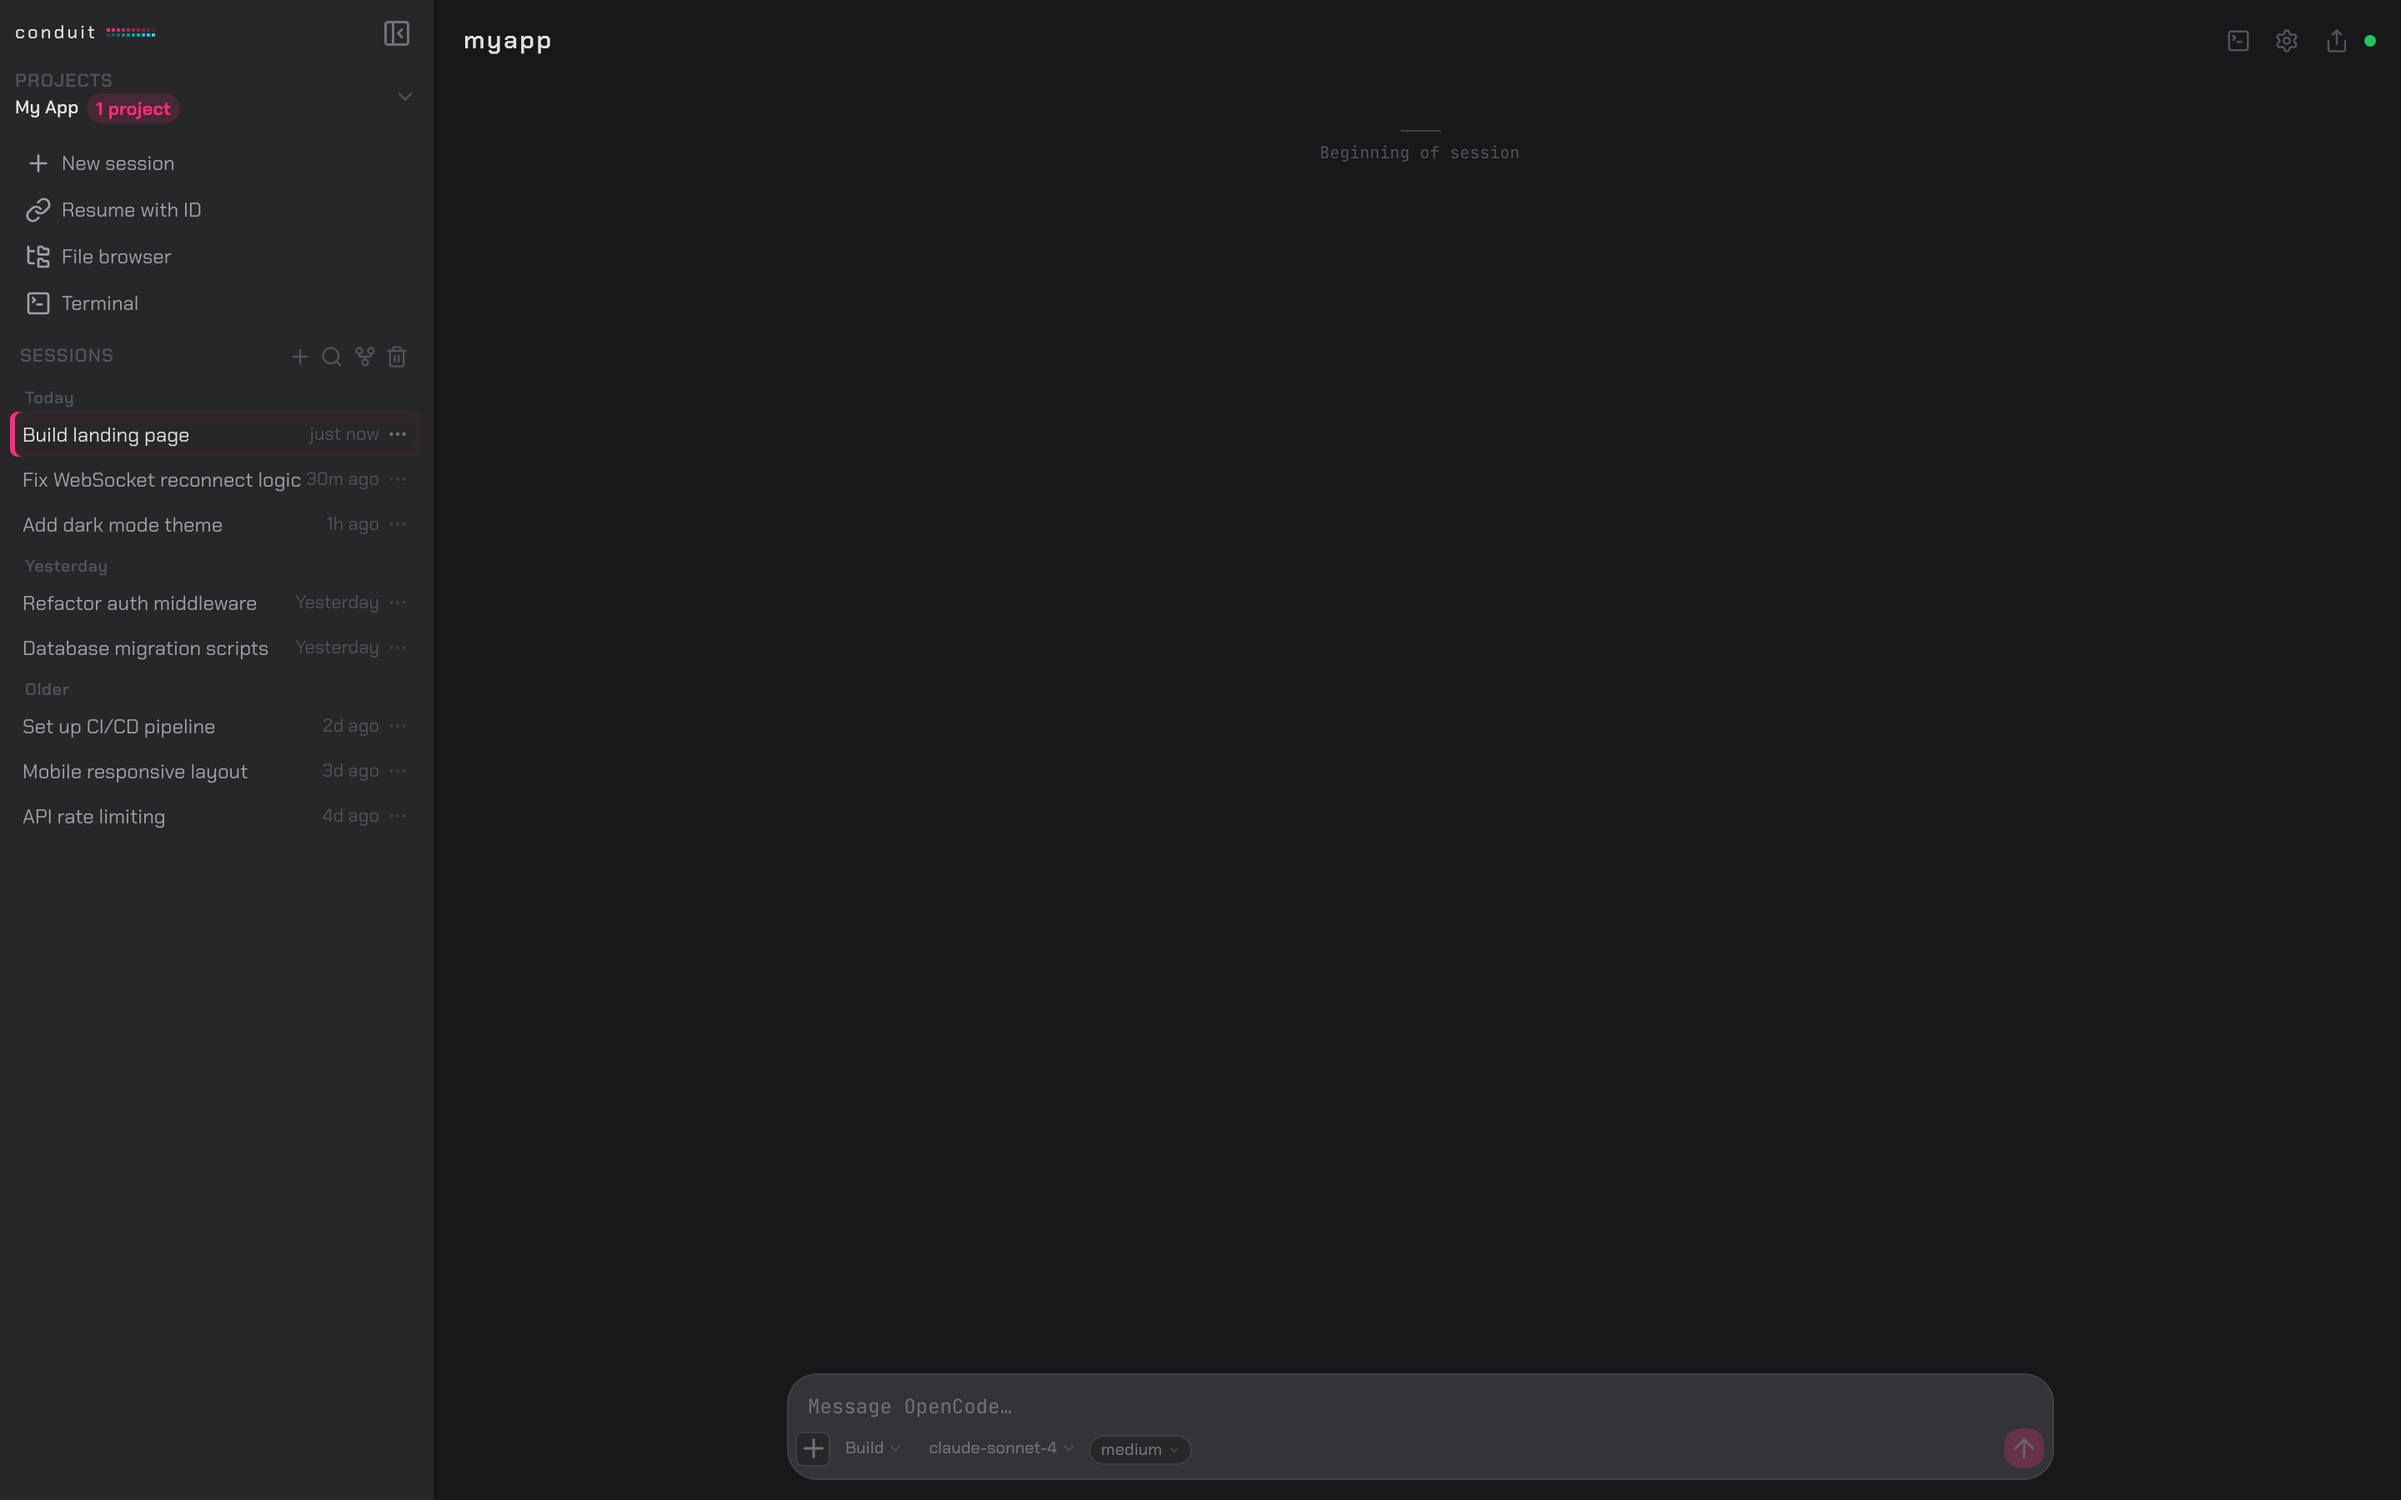
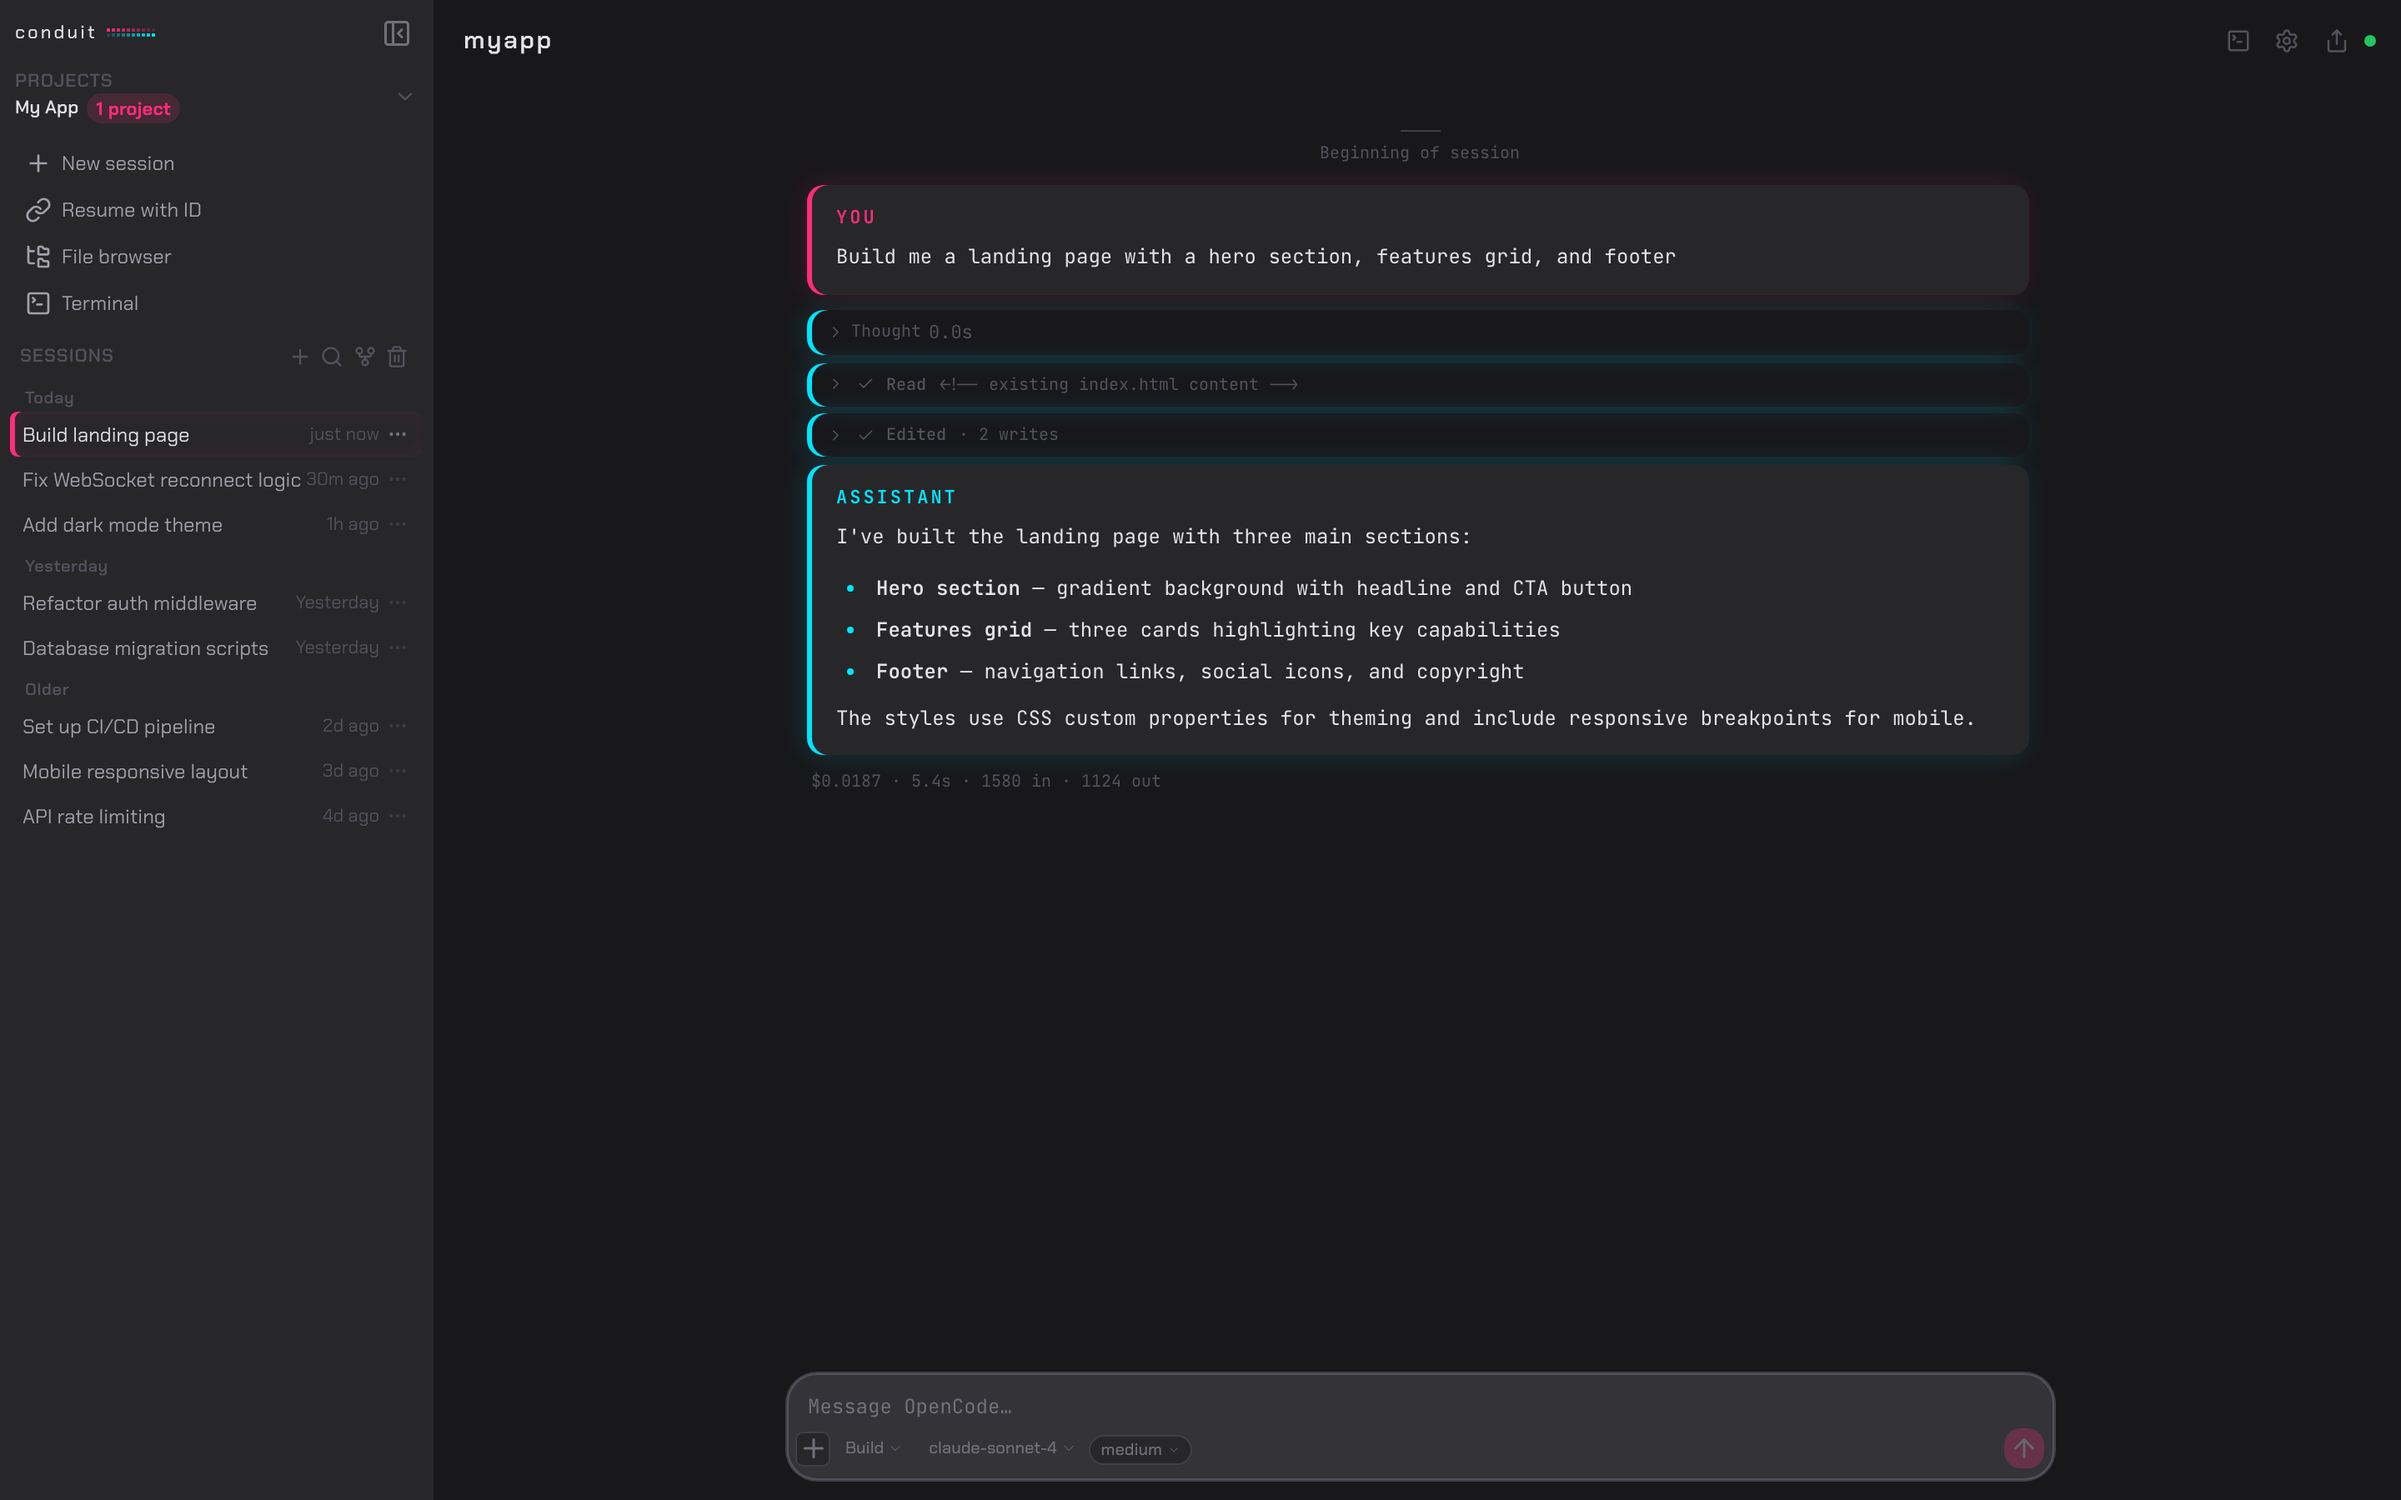
fix: shrink dashboard viewport, populate sidebar with chat messages

diff --git a/scripts/generate-media/scenes/sidebar.ts b/scripts/generate-media/scenes/sidebar.ts
@@ -8,7 +8,7 @@ import {
 	waitForIcons,
 } from "../../../test/e2e/helpers/visual-helpers.js";
 import { mockRelayWebSocket } from "../../../test/e2e/helpers/ws-mock.js";
-import { sidebarInit } from "../fixtures/media-state.js";
+import { mainUiTurn1, sidebarInit } from "../fixtures/media-state.js";
 import type { SceneDefinition } from "../scene-runner.js";
 
 export const sidebarScene: SceneDefinition = {
@@ -23,7 +23,12 @@ export const sidebarScene: SceneDefinition = {
 		await phase("setup-ws-mock", async () => {
 			await mockRelayWebSocket(page, {
 				initMessages: sidebarInit,
-				responses: new Map(),
+				responses: new Map([
+					[
+						"Build me a landing page with a hero section, features grid, and footer",
+						mainUiTurn1,
+					],
+				]),
 			});
 		});
 
@@ -43,6 +48,25 @@ export const sidebarScene: SceneDefinition = {
 				.waitFor({ state: "visible", timeout: 5000 });
 		});
 
+		await phase("send-message", async () => {
+			const input = page.locator("textarea").first();
+			await input.fill(
+				"Build me a landing page with a hero section, features grid, and footer",
+			);
+			await page.keyboard.press("Enter");
+		});
+
+		await assert("response-rendered", async () => {
+			await page
+				.locator("[data-tool-id]")
+				.first()
+				.waitFor({ state: "visible", timeout: 10_000 });
+			await page.waitForFunction(
+				() => !document.querySelector("[data-status='processing']"),
+				{ timeout: 10_000 },
+			);
+		});
+
 		await assert("sidebar-visible", async () => {
 			await page
 				.locator("#sidebar")
@@ -50,7 +74,6 @@ export const sidebarScene: SceneDefinition = {
 		});
 
 		await assert("session-list-populated", async () => {
-			// Wait for session items to render in the sidebar
 			await page
 				.locator("#session-list [data-session-id]")
 				.first()

diff --git a/scripts/generate-media/scenes/dashboard.ts b/scripts/generate-media/scenes/dashboard.ts
@@ -14,7 +14,7 @@ export const dashboardScene: SceneDefinition = {
 	config: {
 		name: "dashboard",
 		outputFile: "GENERATE-DASHBOARD.png",
-		viewport: { width: 1440, height: 900 },
+		viewport: { width: 1440, height: 560 },
 		animated: false,
 	},
 
